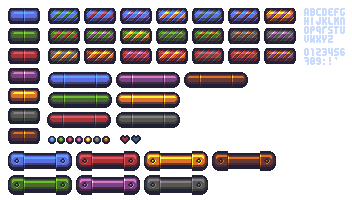
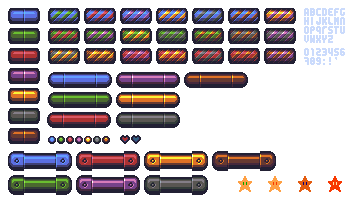
no player :(

diff --git a/Brickout/Game.cs b/Brickout/Game.cs
@@ -13,10 +13,12 @@ namespace Brickout
     class Game : IDisposable
     {
         List<GameObject> GobjectList = new List<GameObject>();
+        List<Powerup> PowerupList = new List<Powerup>();
         public Player Player;
         public Ball Ball;
         public Gameboard Gameboard;
         public Textoutput Score = new Textoutput("Score: ", new Vector2(2, 2));
+        public Random Random = new Random();
         public Vector2 BallSize = new Vector2(20, 20);
         public float Elapsed;
         public float BallDistance;
@@ -30,7 +32,7 @@ namespace Brickout
 
         public Game(int width, int height, string level)
         {
-            Player = new Player(new Vector2(width / 2f, height - 55));
+            Player = CreatePlayer();
             GobjectList.Add(Player);
             Ball = CreateBall();
             GobjectList.Add(Ball);
@@ -74,35 +76,57 @@ namespace Brickout
             if (keyboard.IsPressed(Key.Space) && Ball.Direction.IsZero && Player.Life >= 0)
                 Ball.Direction = new Vector2(0, -1);
 
-
-            //if (BallExists)
-            MoveBall();
+            MoveGameObjetcs();
         }
         //ToDo
         private void GameOver()
         {
 
         }
+        private void MovePowerup()
+        {
+            foreach (Powerup pU in PowerupList.ToArray())
+            {
+                pU.Direction.Normalize();
+                Vector2 newPuPosition = pU.BRPoint + pU.Direction * Elapsed * pU.Speed;
+                Line pULine = new Line(pU.BRPoint, newPuPosition);
+                List<GameObject> isHitList = new List<GameObject>();
+                isHitList = GobjectList
+                               .Where(g => g is Player)
+                                .Where(g => g.ObjectIsHitting(pULine, pU))
+                                .ToList();
+                if (isHitList.Any())
+                {
+                    pU.UsePowerup(Player, Ball);
+                    PowerupList.Remove(pU);
+                    GobjectList.Remove(pU);
+                    isHitList.Clear();
+                }
+                pU.Position += pU.Direction * Elapsed * pU.Speed;
+            }
 
-        private void MoveBall()
+        }
+        private void MoveGameObjetcs()
         {
             Lifelost(Ball.BRPoint);
-            BounceAndMove();
+            MovePowerup();
+            BounceAndMoveBall();
         }
         private void Lifelost(Vector2 brPoint)
         {
 
             if (brPoint.Y >= Height)
             {
-                // BallExists = false;
                 Player.Life--;
-                Ball.BRPoint = new Vector2(Player.Position.X + Player.Size.X / 2, Player.Position.Y - Ball.Size.Y - 5);
-                Ball.Direction = new Vector2(0, 0);
+                GobjectList.Remove(Ball);
+                GobjectList.Remove(Player);
+                Ball = CreateBall();
+                Player = CreatePlayer();
                 if (Player.Life <= 0)
                     GameOver();
             }
         }
-        private void BounceAndMove()
+        private void BounceAndMoveBall()
         {
             BallDistance = Elapsed * Ball.Speed;
             Ball.Direction.Normalize();
@@ -123,7 +147,8 @@ namespace Brickout
             Intersection intersection = default;
 
             isHitList = GobjectList
-                 .Where(g => g.BallIsHitting(ballLine, Ball))
+                .Except(PowerupList)
+                 .Where(g => g.ObjectIsHitting(ballLine, Ball))
                  .ToList();
 
             if (isHitList.Any())
@@ -172,8 +197,16 @@ namespace Brickout
         {
             if (brick.BrickID == 9)
             {
-                //ToDo
+                Powerup powerup = new Powerup(
+                    new Vector2(brick.Position.X + brick.Size.X / 2, brick.Position.Y + brick.Size.Y + Ball.Size.Y),
+                    Random.Next(2));
+                PowerupList.Add(powerup);
+                GobjectList.Add(powerup);
             }
+        }
+        public Player CreatePlayer()
+        {
+            return new Player(new Vector2(Width / 2f, Height - 55));
         }
         private Ball CreateBall()
         {

diff --git a/Brickout/GameObject.cs b/Brickout/GameObject.cs
@@ -20,15 +20,15 @@ namespace Brickout
         private bool intersectRight;
         private bool intersectTop;
         private bool intersectBottom;
-        private Vector2 topLeft(Ball ball) => new Vector2(Position.X, Position.Y);
-        private Vector2 topRight(Ball ball) => new Vector2(Position.X + Size.X + ball.Size.X, Position.Y);
-        private Vector2 botLeft(Ball ball) => new Vector2(Position.X, Position.Y + ball.Size.Y + Size.Y);
-        private Vector2 botRight(Ball ball) => new Vector2(Position.X + Size.X + ball.Size.X, Position.Y + Size.Y + ball.Size.Y);
+        private Vector2 topLeft(GameObject ball) => new Vector2(Position.X, Position.Y);
+        private Vector2 topRight(GameObject ball) => new Vector2(Position.X + Size.X + ball.Size.X, Position.Y);
+        private Vector2 botLeft(GameObject ball) => new Vector2(Position.X, Position.Y + ball.Size.Y + Size.Y);
+        private Vector2 botRight(GameObject ball) => new Vector2(Position.X + Size.X + ball.Size.X, Position.Y + Size.Y + ball.Size.Y);
 
-        public virtual Line GetLeftBorder(Ball ball) => new Line(topLeft(ball), botLeft(ball));
-        public virtual Line GetRightBorder(Ball ball) => new Line(topRight(ball), botRight(ball));
-        public virtual Line GetTopBorder(Ball ball) => new Line(topLeft(ball), topRight(ball));
-        public virtual Line GetBottomBorder(Ball ball) => new Line(botLeft(ball), botRight(ball));
+        public virtual Line GetLeftBorder(GameObject ball) => new Line(topLeft(ball), botLeft(ball));
+        public virtual Line GetRightBorder(GameObject ball) => new Line(topRight(ball), botRight(ball));
+        public virtual Line GetTopBorder(GameObject ball) => new Line(topLeft(ball), topRight(ball));
+        public virtual Line GetBottomBorder(GameObject ball) => new Line(botLeft(ball), botRight(ball));
 
         public GameObject(Vector2 position, Vector2 size, RawRectangleF sprite)
         {
@@ -37,7 +37,7 @@ namespace Brickout
             Sprite = sprite;
         }
 
-        public bool BallIsHitting(Line ballLine, Ball ball)
+        public bool ObjectIsHitting(Line ballLine, GameObject ball)
         {
             Vector2 nullVector = new Vector2(0, 0);
             intersectLeft = (nullVector != GetLeftBorder(ball).LineSegmentIntersection(ballLine));
@@ -47,7 +47,7 @@ namespace Brickout
 
             return (intersectLeft || intersectRight || intersectTop || intersectBottom);
         }
-        public static Intersection GetIntersection(Line ballLine, Ball ball, List<GameObject> gObjectList, List<GameObject> isHitList)
+        public static Intersection GetIntersection(Line ballLine, GameObject ball, List<GameObject> gObjectList, List<GameObject> isHitList)
         {
             List<Intersection> intersectionList = new List<Intersection>();
             void AddBorderToList(Line line, GameObject gObject)

diff --git a/Brickout/Powerup.cs b/Brickout/Powerup.cs
@@ -1,0 +1,63 @@
+using SharpDX;
+using SharpDX.Mathematics.Interop;
+using System;
+using System.Collections.Generic;
+using System.Linq;
+using System.Text;
+using System.Threading.Tasks;
+
+namespace Brickout
+{
+    class Powerup : GameObject
+    {
+        public int PowerupID;
+        public int Effect;
+        public Random Random = new Random(); 
+        public Vector2 BRPoint
+        {
+            get => Position + Size;
+            set => Position = value - Size;
+        }
+        public Powerup(Vector2 position, int powerupID) : base(position, new Vector2(20, 20), ReturnRectangle(powerupID))
+        {
+            PowerupID = powerupID;
+            Effect = GetEffect(powerupID);
+            Direction = new Vector2(0, 1);
+            Speed = 50;
+            if (powerupID != 1)
+                PowerupID = -1;
+
+        }
+        private int GetEffect(int powerupID)
+        {
+            return Random.Next(3);
+        }
+        public void UsePowerup(Player player, Ball ball)
+        {
+            //playerSize+, playerSize-, ballFaster, ballSlower, ballIMBA, 2Balls
+            switch (Effect)
+            {
+                case 0://playerSize abh. von PowerupId(entweder 1 oder -1)
+                    player.Size.X = player.Size.X + PowerupID * player.Size.X / 3;
+                    break;
+                case 1://ballSpeed abh. von PowerupId(entweder 1 oder -1)
+                    ball.Speed = ball.Speed - PowerupID * ball.Speed / 3;
+                    break;
+                case 2:
+                    ball.Size = ball.Size + PowerupID * ball.Size / 2;
+                    break;
+                default: return;
+            }
+        }
+        private static RawRectangleF ReturnRectangle(int powerupID)
+        {
+            if (powerupID == 1)
+                return new RawRectangleF(238, 176, 251, 191);
+            else
+                return new RawRectangleF(328, 176, 341, 191);
+
+
+        }
+
+    }
+}

diff --git a/Brickout/Gameboard.cs b/Brickout/Gameboard.cs
@@ -19,10 +19,10 @@ namespace Brickout
         public int[][] GameBoard;
         public int MarginTop;
 
-        public override Line GetLeftBorder(Ball ball) => new Line(new Vector2(ball.Size.X, ball.Size.Y), new Vector2(ball.Size.X, Height + ball.Size.Y));
-        public override Line GetTopBorder(Ball ball) => new Line(new Vector2(ball.Size.X, ball.Size.Y), new Vector2(Width, ball.Size.Y));
-        public override Line GetRightBorder(Ball ball) => new Line(new Vector2(Width, ball.Size.Y), new Vector2(Width, Height + ball.Size.Y));
-        public override Line GetBottomBorder(Ball ball) => new Line(new Vector2(ball.Size.X, Height + ball.Size.Y), new Vector2(Width, Height + ball.Size.Y));
+        public override Line GetLeftBorder(GameObject ball) => new Line(new Vector2(ball.Size.X, ball.Size.Y), new Vector2(ball.Size.X, Height + ball.Size.Y));
+        public override Line GetTopBorder(GameObject ball) => new Line(new Vector2(ball.Size.X, ball.Size.Y), new Vector2(Width, ball.Size.Y));
+        public override Line GetRightBorder(GameObject ball) => new Line(new Vector2(Width, ball.Size.Y), new Vector2(Width, Height + ball.Size.Y));
+        public override Line GetBottomBorder(GameObject ball) => new Line(new Vector2(ball.Size.X, Height + ball.Size.Y), new Vector2(Width, Height + ball.Size.Y));
         public Gameboard(int width, int height, string level, List<GameObject> gObList)
             : base(new Vector2(0, 0), new Vector2(width, height), new RawRectangleF())
         {

diff --git a/Brickout/Textoutput.cs b/Brickout/Textoutput.cs
@@ -13,7 +13,7 @@ namespace Brickout
         public int Number;
         public Vector2 Position;
 
-        public List<TextCharacter> Output => GetOutput(Text + Number.ToString());
+        public TextCharacter[] Output => GetOutput(Text + Number.ToString());
 
 
 
@@ -23,19 +23,9 @@ namespace Brickout
             Position = position;
         }
 
-        public List<TextCharacter> GetOutput(string text)
+        public TextCharacter[] GetOutput(string text)
         {
-            List<TextCharacter> list = new List<TextCharacter>();
-            int index = 0;
-            foreach (char character in text.ToUpper())
-            {
-                index++;
-                list.Add(new TextCharacter(character, index, Position));
-            }
-            return list;
+            return text.ToUpper().Select((t, index) =>  new TextCharacter(t, index, Position)).ToArray();
         }
-
-
-
     }
 }

diff --git a/Brickout/Player.cs b/Brickout/Player.cs
@@ -19,11 +19,13 @@ namespace Brickout
         public bool IsValidMovementLeft(Player player, Gameboard gameboard)
         {
             Player playerL = new Player(new Vector2(player.Position.X - 1, player.Position.Y));
+            playerL.Size = player.Size;
             return (gameboard.IncludesGameObject(playerL));
         }
         public bool IsValidMovementRight(Player player, Gameboard gameboard)
         {
             Player playerR = new Player(new Vector2(player.Position.X + 1, player.Position.Y));
+            playerR.Size = player.Size;
             return (gameboard.IncludesGameObject(playerR));
         }
     }
